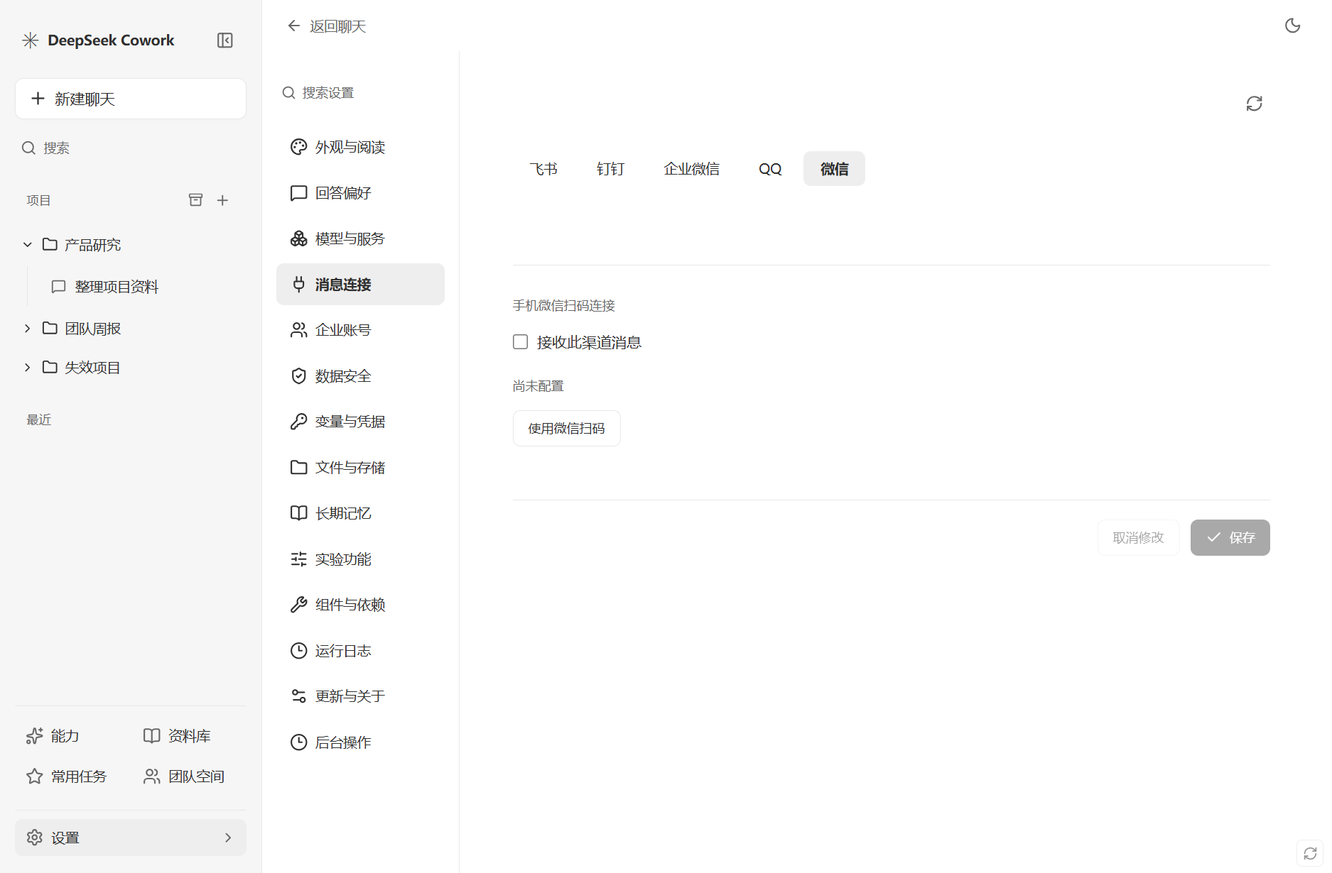
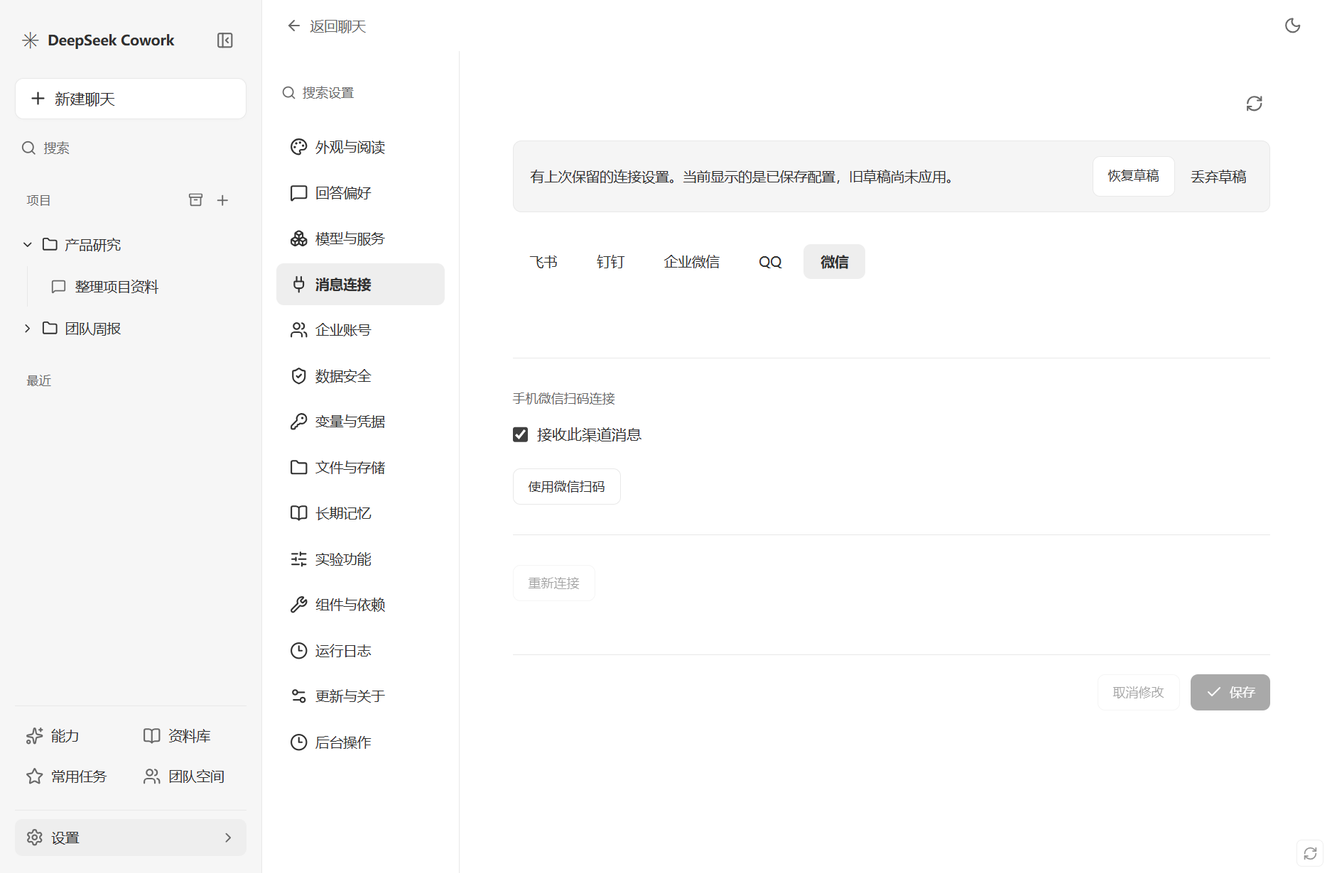
fix(desktop): 修复消息连接旧草稿误提醒并添加标签页列表

diff --git a/desktop/src/Workspace.tsx b/desktop/src/Workspace.tsx
@@ -1,5 +1,5 @@
-import { useCallback, useEffect, useRef, useState, type ReactNode } from 'react';
-import { ArrowLeft, ChevronRight, FileText, Folder, Globe, ListChecks, Maximize2, MessageSquare, Minimize2, Pin, PinOff, Plus, RefreshCw, Search, Terminal, X } from 'lucide-react';
+import { useCallback, useEffect, useLayoutEffect, useRef, useState, type ReactNode } from 'react';
+import { ArrowLeft, Check, ChevronDown, ChevronRight, FileText, Folder, Globe, ListChecks, Maximize2, MessageSquare, Minimize2, Pin, PinOff, Plus, RefreshCw, Search, Terminal, X } from 'lucide-react';
 import type { Conversation, FileSession } from './types';
 import PluginSlot from './plugins/PluginSlot';
 import {useHostField} from './host/context';
@@ -26,6 +26,8 @@ export default function Workspace(props: Props) {
   const [tabs, setTabs] = useState<WorkbenchTab[]>([]), [profiles, setProfiles] = useState<{id: string; name: string}[]>([]);
   const [address, setAddress] = useHostField('workspace:'+cid+':address',''), [shell, setShell] = useHostField('workspace:'+cid+':shell',''), [busy, setBusy] = useState(false), [loadError, setLoadError] = useState('');
   const root = useRef<HTMLElement>(null), alive = useRef(true);
+  const [tabsOpen, setTabsOpen] = useState(false), [tabQuery, setTabQuery] = useState('');
+  const tabPicker = useRef<HTMLDivElement>(null), tabTrigger = useRef<HTMLButtonElement>(null);
   const current = useRef(props); current.current = props;
   const refresh = useCallback(async () => {
     try { const result = await call('workbench.list', { conversation_id: cid }); if (alive.current) { setTabs(result.tabs); setLoadError(''); } }
@@ -51,6 +53,30 @@ export default function Workspace(props: Props) {
   const showTasks = value.selected === 'tasks' && value.tasksPinned;
   const floating = value.filesOpen && !value.filesPinned;
   const fileSelected = value.selected.startsWith('file:');
+  useEffect(() => {setTabsOpen(false);setTabQuery('');},[cid]);
+  useEffect(() => {
+    if (!tabsOpen) return;
+    const dismiss = (event: PointerEvent) => {
+      if (!tabPicker.current?.contains(event.target as Node) && !tabTrigger.current?.contains(event.target as Node)) setTabsOpen(false);
+    };
+    const blur = () => setTabsOpen(false);
+    document.addEventListener('pointerdown',dismiss);window.addEventListener('blur',blur);
+    tabPicker.current?.querySelector('input')?.focus();
+    return () => {document.removeEventListener('pointerdown',dismiss);window.removeEventListener('blur',blur);};
+  },[tabsOpen]);
+  useLayoutEffect(() => {
+    const list=root.current?.querySelector<HTMLElement>('.workspace-tabs');
+    if (!list) return;
+    const reveal=()=>{
+      const tab=list.querySelector<HTMLElement>('.workspace-tab.active');
+      if (!tab) return;
+      const bounds=list.getBoundingClientRect(),selected=tab.getBoundingClientRect();
+      if(selected.left<bounds.left)list.scrollLeft+=selected.left-bounds.left;
+      else if(selected.right>bounds.right)list.scrollLeft+=selected.right-bounds.right;
+    };
+    reveal();const observer=new ResizeObserver(reveal);observer.observe(list);
+    return()=>observer.disconnect();
+  },[value.selected,expanded,editors.length,tabs.length,value.tasksPinned,value.newOpen]);
   async function openNative(kind: 'web' | 'terminal') {
     setBusy(true);
     try {
@@ -74,6 +100,14 @@ export default function Workspace(props: Props) {
       {close && <button className="tab-close" aria-label={'关闭 ' + name} onClick={close}><X size={13}/></button>}
     </div>;
   }
+  const tabItems: {id:string;name:string;detail?:string;icon:ReactNode;select:()=>void;close?:()=>void}[] = [
+    ...(expanded ? [{id:'conversation',name:'对话',icon:<MessageSquare size={14}/>,select:()=>change({selected:'conversation'})}] : []),
+    ...(value.tasksPinned ? [{id:'tasks',name:'任务',icon:<ListChecks size={14}/>,select:()=>change({selected:'tasks'}),close:()=>change({tasksPinned:false,...(showTasks ? {selected:'new',newOpen:true} : {})})}] : []),
+    ...editors.map(editor=>({id:'file:'+editor.file.path,name:editor.file.name+(editor.text!==editor.saved ? ' •' : ''),detail:editor.file.path,icon:<FileText size={14}/>,select:()=>void props.selectFile(editor.file.path),close:()=>void props.closeFile(editor.file.path)})),
+    ...tabs.map(tab=>({id:'workbench:'+tab.id,name:tab.title,detail:tab.kind==='web'?tab.url:tab.cwd,icon:tab.kind==='web'?<Globe size={14}/>:<Terminal size={14}/>,select:()=>{change({selected:'workbench:'+tab.id});void call('workbench.activate',{conversation_id:cid,tab_id:tab.id}).catch(failure=>error(failure.message));},close:()=>void closeNative(tab)})),
+    ...(value.newOpen ? [{id:'new',name:'新标签页',icon:<Plus size={14}/>,select:()=>change({selected:'new'}),close:()=>change({newOpen:false,selected:editors[0]?'file:'+editors[0].file.path:tabs[0]?'workbench:'+tabs[0].id:value.tasksPinned?'tasks':'empty'})}] : []),
+  ];
+  const matchingTabs=tabItems.filter(tab=>(tab.name+' '+(tab.detail||'')).toLocaleLowerCase().includes(tabQuery.trim().toLocaleLowerCase()));
   const taskContent = <PluginSlot kind="panel" target="tasks" scope={{conversationId:cid}}><TaskWorkspace cid={cid} conversation={conversation} value={value.task} change={task => change({task: {...value.task, ...task}})} error={error}/></PluginSlot>;
   return <section className="workspace" ref={root} aria-label="工作区">
     <div className="workspace-bar">
@@ -83,16 +117,20 @@ export default function Workspace(props: Props) {
         requestAnimationFrame(() => root.current?.querySelector<HTMLButtonElement>('[role="tab"][title="任务"]')?.focus());
       }}><ListChecks size={17}/></button>}
       <div className="workspace-tabs" role="tablist" aria-label="工作区标签">
-        {expanded && tabButton('conversation', '对话', <MessageSquare size={14}/>, () => change({selected: 'conversation'}))}
-        {value.tasksPinned && tabButton('tasks', '任务', <ListChecks size={14}/>, () => change({selected: 'tasks'}), () => change({tasksPinned: false, ...(showTasks ? {selected: 'new', newOpen: true} : {})}))}
-        {editors.map(editor => tabButton('file:' + editor.file.path, editor.file.name + (editor.text !== editor.saved ? ' •' : ''), <FileText size={14}/>, () => void props.selectFile(editor.file.path), () => void props.closeFile(editor.file.path)))}
-        {tabs.map(tab => tabButton('workbench:' + tab.id, tab.title, tab.kind === 'web' ? <Globe size={14}/> : <Terminal size={14}/>, () => { change({selected: 'workbench:' + tab.id}); void call('workbench.activate', {conversation_id: cid, tab_id: tab.id}).catch(failure => error(failure.message)); }, () => void closeNative(tab)))}
-        {value.newOpen && tabButton('new', '新标签页', <Plus size={14}/>, () => change({selected: 'new'}), () => change({newOpen: false, selected: editors[0] ? 'file:' + editors[0].file.path : tabs[0] ? 'workbench:' + tabs[0].id : value.tasksPinned ? 'tasks' : 'empty'}))}
+        {tabItems.map(tab=>tabButton(tab.id,tab.name,tab.icon,tab.select,tab.close))}
       </div>
+      <button ref={tabTrigger} data-workspace-toggle className={'icon-button '+(tabsOpen?'selected':'')} title="全部标签页" aria-label="全部标签页" aria-haspopup="dialog" aria-expanded={tabsOpen} onClick={()=>{setTabsOpen(!tabsOpen);setTabQuery('');if(!tabsOpen)change({...(!value.filesPinned?{filesOpen:false}:{}),tasksOpen:false});}}><ChevronDown size={17}/></button>
       <button className="icon-button" title="新标签页" onClick={() => change({selected: 'new', newOpen: true})}><Plus size={17}/></button>
       <button className="icon-button" title={expanded ? '恢复分栏' : '展开工作区'} onClick={props.expand}>{expanded ? <Minimize2 size={16}/> : <Maximize2 size={16}/>}</button>
       <button className="icon-button" title="收起工作区" onClick={props.close}><X size={16}/></button>
     </div>
+    {tabsOpen && <div ref={tabPicker} data-workspace-flyout className="workspace-tab-picker" role="dialog" aria-label="全部标签页" onKeyDown={event=>{
+      if(event.key==='Escape'){event.preventDefault();event.stopPropagation();setTabsOpen(false);tabTrigger.current?.focus();}
+      if(['ArrowDown','ArrowUp'].includes(event.key)){
+        event.preventDefault();const choices=[...tabPicker.current!.querySelectorAll<HTMLButtonElement>('[role=option]')],index=choices.indexOf(document.activeElement as HTMLButtonElement);
+        choices[index<0?(event.key==='ArrowDown'?0:choices.length-1):(index+(event.key==='ArrowDown'?1:choices.length-1))%choices.length]?.focus();
+      }
+    }}><label className="navigator-search"><Search size={15}/><input aria-label="搜索标签页" placeholder="搜索标签页" value={tabQuery} onChange={event=>setTabQuery(event.target.value)}/></label><div className="workspace-tab-choices" role="listbox" aria-label="打开的标签页">{matchingTabs.map(tab=><button key={tab.id} role="option" aria-selected={value.selected===tab.id} title={tab.detail||tab.name} onClick={()=>{tab.select();setTabsOpen(false);requestAnimationFrame(()=>root.current?.querySelector<HTMLButtonElement>('[role=tab][aria-selected=true]')?.focus());}}>{tab.icon}<span>{tab.name}{tab.detail&&<small>{tab.detail}</small>}</span>{value.selected===tab.id&&<Check size={15}/>}</button>)}{!matchingTabs.length&&<p className="muted">{tabItems.length?'没有匹配的标签页':'还没有打开的标签页'}</p>}</div></div>}
     <div className={'workspace-body ' + (value.filesOpen && value.filesPinned ? 'files-pinned' : '')}>
       {value.filesOpen && <PluginSlot kind="panel" target="files" scope={{conversationId:cid}}><aside data-workspace-flyout className={'file-navigator ' + (value.filesPinned ? 'pinned' : 'floating')} aria-label="工作区文件导航">
         <div className="navigator-heading"><strong>工作区文件</strong><small>{props.fileTree.files.length} 项</small><button className="icon-button" title={value.filesPinned ? '取消固定文件导航' : '固定文件导航'} onClick={() => change({filesPinned: !value.filesPinned})}>{value.filesPinned ? <PinOff size={14}/> : <Pin size={14}/>}</button></div>
@@ -104,7 +142,7 @@ export default function Workspace(props: Props) {
       </aside></PluginSlot>}
       <div className="workspace-content" hidden={expanded && value.selected === 'conversation'}>
         {loadError && <div className="inline-error" role="alert">{loadError}<button onClick={() => void refresh()}>重试</button></div>}
-        {showTasks ? taskContent : fileSelected ? props.fileContent : selectedTab?.kind === 'terminal' ? <PluginSlot kind="panel" target="terminal" scope={{conversationId:cid,tabId:selectedTab.id}}><TerminalWorkspace key={selectedTab.id} cid={cid} tab={selectedTab} dark={props.dark} error={error} refresh={refresh}/></PluginSlot> : selectedTab?.kind === 'web' ? <PluginSlot kind="panel" target="browser" scope={{conversationId:cid,tabId:selectedTab.id}}><BrowserWorkspace key={selectedTab.id} cid={cid} tab={selectedTab} obscured={props.obscured || floating} error={error} refresh={refresh}/></PluginSlot> : <div className="workspace-start">
+        {showTasks ? taskContent : fileSelected ? props.fileContent : selectedTab?.kind === 'terminal' ? <PluginSlot kind="panel" target="terminal" scope={{conversationId:cid,tabId:selectedTab.id}}><TerminalWorkspace key={selectedTab.id} cid={cid} tab={selectedTab} dark={props.dark} error={error} refresh={refresh}/></PluginSlot> : selectedTab?.kind === 'web' ? <PluginSlot kind="panel" target="browser" scope={{conversationId:cid,tabId:selectedTab.id}}><BrowserWorkspace key={selectedTab.id} cid={cid} tab={selectedTab} obscured={props.obscured || floating || tabsOpen} error={error} refresh={refresh}/></PluginSlot> : <div className="workspace-start">
           <Globe size={28}/><form className="new-page-address" onSubmit={event => {event.preventDefault(); void openNative('web');}}><input aria-label="新网页地址" placeholder="输入网址" value={address} onChange={event => setAddress(event.target.value)}/><button className="icon-button" title="打开网页" disabled={!address.trim() || busy}><ChevronRight size={17}/></button></form>
           <div className="workspace-start-actions"><button className="secondary" onClick={() => void props.createDocument()}><FileText size={16}/>新增页面</button><button className="secondary" disabled={busy} onClick={() => void openNative('terminal')}><Terminal size={16}/>终端</button></div>
           <select aria-label="新终端类型" value={shell} onChange={event => setShell(event.target.value)}><option value="">默认终端</option>{profiles.map(profile => <option key={profile.id} value={profile.id}>{profile.name}</option>)}</select>

diff --git a/desktop/src/management/SystemSettings.tsx b/desktop/src/management/SystemSettings.tsx
@@ -13,9 +13,9 @@ export default function SystemSettings(props: Props) {
 }
 function SettingsForm({ page, kind, onDirty, onError, confirm, reload, context, setContext }: Props & {page: any; reload: () => void; context: string; setContext: (value: string) => void}) {
   const fields = page.sections.flatMap((section: any) => section.fields || []), secrets = fields.filter((field: any) => field.type === 'password').map((field: any) => field.key);
-  const form = useFormDraft('settings:' + kind + ':' + context, page.values || {}, kind === 'logs' ? () => {} : onDirty, secrets);
+  const form = useFormDraft('settings:' + kind + ':' + context, page.values || {}, kind === 'logs' ? () => {} : onDirty, secrets, kind === 'im');
   const channels = fields.find((field: any) => field.key === 'enabled_provider')?.options.filter((option: any) => option.value) || [];
-  const [channel, setChannel] = useHostField('settings:browse:' + kind, page.values.enabled_provider || channels[0]?.value || '');
+  const [channel, setChannel] = useHostField('settings:browse:' + kind, form.value.enabled_provider || page.values.enabled_provider || channels[0]?.value || '');
   const [savedRevision, setSavedRevision] = useState(page.revision);
   const [busy, setBusy] = useState(false), [failure, setFailure] = useState(''), [job, setJob] = useState<any>(null), [detail, setDetail] = useState<any>(null);
   function set(key: string, value: any) {form.change({...form.value, [key]: value});}
@@ -44,7 +44,7 @@ function SettingsForm({ page, kind, onDirty, onError, confirm, reload, context, 
         {field.type === 'textarea' ? <textarea rows={field.rows || 6} value={value} disabled={busy || field.read_only} onChange={event => set(field.key, event.target.value)}/> : field.type === 'select' ? <select value={value} disabled={busy || field.read_only} onChange={event => set(field.key, event.target.value)}>{field.options.map((option: any) => <option key={String(option.value)} value={option.value}>{option.label}</option>)}</select> : field.type === 'path' ? <div className="input-action"><input value={value} disabled={busy || field.read_only} onChange={event => set(field.key, event.target.value)}/><button type="button" className="secondary" disabled={busy || field.read_only} onClick={async () => {const path = await rpc('dialog.workspace'); if (path) set(field.key, path);}}><Folder size={14}/>选择</button></div> : <input type={field.type === 'password' ? 'password' : field.type === 'number' ? 'number' : 'text'} autoComplete={field.type === 'password' ? 'off' : undefined} value={value} min={field.min} max={field.max} step={field.step} placeholder={field.placeholder} disabled={busy || field.read_only} onChange={event => set(field.key, field.type === 'number' ? Number(event.target.value) : event.target.value)}/>}
       </Field>;
   }
-  return <><PageHead compact title={page.title} detail={page.description}><button className="icon-button" title="刷新状态" disabled={busy || (kind !== 'logs' && form.dirty)} onClick={reload}><RefreshCw size={17}/></button></PageHead>{page.contexts && <Field label="记忆范围"><select value={context} disabled={busy} onChange={async event => {const value = event.target.value; if (!form.dirty || await confirm('保留未保存的记忆？', '编辑草稿按项目保留，下次选择该项目时可继续。', ['继续编辑','切换项目']) === 1) setContext(value);}}>{page.contexts.map((item: any) => <option key={item.value} value={item.value}>{item.label}</option>)}</select></Field>}<JobProgress job={job}/><form className="detail-form" onSubmit={async event => {
+  return <><PageHead compact title={page.title} detail={page.description}><button className="icon-button" title="刷新状态" disabled={busy || (kind !== 'logs' && form.dirty)} onClick={reload}><RefreshCw size={17}/></button></PageHead>{page.contexts && <Field label="记忆范围"><select value={context} disabled={busy} onChange={async event => {const value = event.target.value; if (!form.dirty || await confirm('保留未保存的记忆？', '编辑草稿按项目保留，下次选择该项目时可继续。', ['继续编辑','切换项目']) === 1) setContext(value);}}>{page.contexts.map((item: any) => <option key={item.value} value={item.value}>{item.label}</option>)}</select></Field>}{form.recovery && <section className="settings-draft-recovery" role="status"><p>有上次保留的连接设置。当前显示的是已保存配置，旧草稿尚未应用。</p><div className="button-row"><button className="secondary" onClick={async()=>{if(!form.dirty || await confirm('恢复上次的连接设置？','当前未保存的编辑将被旧草稿替换，已保存配置不会改变。',['继续编辑','恢复草稿'])===1)form.restore();}}>恢复草稿</button><button onClick={async()=>{if(await confirm('丢弃旧草稿？','只清除这份未恢复的连接设置，已保存配置和当前编辑均保留。',['保留','丢弃草稿'])===1)form.discardRecovery();}}>丢弃草稿</button></div></section>}<JobProgress job={job}/><form className="detail-form" onSubmit={async event => {
     event.preventDefault(); setBusy(true); setFailure('');
     try {const result = await rpc('settings.page_save', {page: kind, context, value: form.value, revision: savedRevision}); form.done(result.values || form.value); setSavedRevision(result.revision); if(kind === 'im') reload(); onError('设置已保存。');}
     catch (failure) {setFailure((failure as Error).message);} finally {setBusy(false);}

diff --git a/desktop/src/Management.tsx b/desktop/src/Management.tsx
@@ -3,6 +3,7 @@ import { ArrowLeft, BookOpen, Boxes, CircleUserRound, Clock3, KeyRound, LoaderCi
 import { rpc } from './managementApi';
 import type { Settings } from './types';
 import {useHostField} from './host/context';
+import {prepareFormDraft, publicFormDraft, restoreFormRecovery, sameFormValue, type FormDraft} from './host/forms';
 const Capabilities = lazy(() => import('./management/Capabilities'));
 const Preferences = lazy(() => import('./management/Preferences'));
 const Library = lazy(() => import('./management/Library'));
@@ -65,34 +66,41 @@ export function JobProgress({ job }: { job: any }) {
   return job && !['completed', 'failed', 'cancelled'].includes(job.status) ? <div className="job-progress" role="status"><LoaderCircle size={16} className="spin"/><span>{job.message || '正在处理…'}</span>{job.url && <button className="secondary" onClick={() => void rpc('external.open', { url: job.url })}>打开登录页</button>}<button className="icon-button" title="取消操作" onClick={() => void rpc('jobs.cancel', { id: job.id })}><X size={15}/></button>{job.qr_data && <img className="connection-qr" src={job.qr_data} alt="连接二维码"/>}{job.verification_required && <div className="input-action"><input aria-label="手机配对码" value={code} onChange={e => setCode(e.target.value)}/><button type="button" onClick={async () => {try {await rpc('im.verify', {code}); setCode(''); setFailure('');} catch (error) {setFailure((error as Error).message);}}}>确认配对码</button></div>}{failure && <span className="error-text">{failure}</span>}</div> : null;
 }
 
-export function useFormDraft(key: string, initial: any, onDirty: (dirty: boolean) => void, secrets: string[] = []) {
-  const [entry,setEntry] = useHostField<any>('form:' + key, () => {
+export function useFormDraft(key: string, initial: any, onDirty: (dirty: boolean) => void, secrets: string[] = [], offerLegacy = false) {
+  const [stored,setEntry] = useHostField<FormDraft>('form:' + key, () => {
     const cached=localStorage.getItem('form:' + key);
-    return {value:cached ? {...initial,...JSON.parse(cached)} : initial, saved:initial};
+    return prepareFormDraft(initial, cached ? JSON.parse(cached) : null, offerLegacy);
   });
+  const entry = stored.version === 1 ? stored : prepareFormDraft(initial, stored, offerLegacy);
   const {value,saved}=entry;
-  const dirty = JSON.stringify(value) !== JSON.stringify(saved);
+  const dirty = !sameFormValue(value,saved);
   const initialKey = key + ':' + JSON.stringify(initial), seenInitial = useRef('');
+  function persist(next: FormDraft) {
+    if (!next.recovery && sameFormValue(next.value,next.saved)) localStorage.removeItem('form:' + key);
+    else localStorage.setItem('form:' + key, JSON.stringify(publicFormDraft(next,secrets)));
+  }
   useEffect(()=>{
     if(seenInitial.current===initialKey)return;
     seenInitial.current=initialKey;
-    if(!dirty&&JSON.stringify(initial)!==JSON.stringify(saved))setEntry({value:initial,saved:initial});
-  },[initialKey,dirty,saved,initial]);
+    const next=prepareFormDraft(initial,entry,offerLegacy);
+    if(!sameFormValue(stored,next))setEntry(next);
+    persist(next);
+    if(next.recovery)console.info('form_draft_recovery_available', {form:key});
+  },[initialKey]);
   useEffect(() => { onDirty(dirty); return () => onDirty(false); }, [dirty, onDirty]);
-  function change(next: any) {
-    setEntry({...entry,value:next});
-    const publicDraft = { ...next }; for (const key of secrets) delete publicDraft[key];
-    localStorage.setItem('form:' + key, JSON.stringify(publicDraft));
-  }
+  function update(next: FormDraft) {setEntry(next);persist(next);}
+  function change(next: any) { update({...entry,value:next}); }
   function done(next = value) {
     let remaining = false;
-    setEntry((previous:any)=>{
-      const current=JSON.stringify(previous.value)===JSON.stringify(value)?next:previous.value;
-      remaining=JSON.stringify(current)!==JSON.stringify(next);
-      if(remaining){const cached={...current};for(const name of secrets)delete cached[name];localStorage.setItem('form:'+key,JSON.stringify(cached));}
-      else localStorage.removeItem('form:'+key);
-      return {value:current,saved:next};
+    setEntry(previous=>{
+      const current=sameFormValue(previous.value,value)?next:previous.value;
+      remaining=!sameFormValue(current,next);
+      const result={...previous,version:1 as const,value:current,saved:next};
+      persist(result);return result;
     });onDirty(remaining);
   }
-  return { value, change, done, dirty, reset: () => {setEntry({value:saved,saved});localStorage.removeItem('form:'+key);onDirty(false);} };
+  return { value, change, done, dirty, recovery:entry.recovery,
+    restore: () => {update(restoreFormRecovery(entry));console.info('form_draft_restored', {form:key});},
+    discardRecovery: () => {const {recovery,...next}=entry;update(next);console.info('form_draft_discarded', {form:key});},
+    reset: () => {update({...entry,value:saved});onDirty(false);} };
 }

diff --git a/desktop/src/host/forms.ts b/desktop/src/host/forms.ts
@@ -1,0 +1,41 @@
+/** Form drafts keep their saved baseline; browsing a legacy draft is not an edit. */
+type Values = Record<string, any>;
+type Snapshot = { value: Values; saved: Values };
+export type FormDraft = Snapshot & { version: 1; recovery?: Snapshot };
+
+export function sameFormValue(left: any, right: any): boolean {
+  if (Object.is(left, right)) return true;
+  if (!left || !right || typeof left !== 'object' || typeof right !== 'object' || Array.isArray(left) !== Array.isArray(right)) return false;
+  const keys = Object.keys(left);
+  return keys.length === Object.keys(right).length && keys.every(key => Object.hasOwn(right, key) && sameFormValue(left[key], right[key]));
+}
+
+function rebase(initial: Values, draft: Snapshot): Values {
+  const value = { ...initial };
+  for (const key of new Set([...Object.keys(draft.saved), ...Object.keys(draft.value)])) {
+    if (sameFormValue(draft.value[key], draft.saved[key])) continue;
+    if (Object.hasOwn(draft.value, key)) value[key] = draft.value[key];
+    else delete value[key];
+  }
+  return value;
+}
+
+export function prepareFormDraft(initial: Values, cached: any, offerLegacy = false): FormDraft {
+  if (!cached) return { version: 1, value: initial, saved: initial };
+  const snapshot = cached.value && cached.saved;
+  const value = snapshot ? rebase(initial, cached) : { ...initial, ...cached };
+  if (cached.version !== 1 && offerLegacy && !sameFormValue(value, initial)) {
+    return { version: 1, value: initial, saved: initial, recovery: { value, saved: initial } };
+  }
+  return { version: 1, value, saved: initial, ...(cached.recovery ? { recovery: cached.recovery } : {}) };
+}
+
+export function restoreFormRecovery(entry: FormDraft): FormDraft {
+  return entry.recovery ? { version: 1, value: rebase(entry.saved, entry.recovery), saved: entry.saved } : entry;
+}
+
+export function publicFormDraft(entry: FormDraft, secrets: string[]): FormDraft {
+  const publicValues = (value: Values) => Object.fromEntries(Object.entries(value).filter(([key]) => !secrets.includes(key)));
+  const publicSnapshot = (snapshot: Snapshot) => ({ value: publicValues(snapshot.value), saved: publicValues(snapshot.saved) });
+  return { version: 1, ...publicSnapshot(entry), ...(entry.recovery ? { recovery: publicSnapshot(entry.recovery) } : {}) };
+}

diff --git a/desktop/src/management.css b/desktop/src/management.css
@@ -130,3 +130,5 @@ body{font-family:var(--font-family);font-size:calc(14px * var(--font-scale))}
 .connection-receive{display:flex;align-items:center;gap:16px;flex-wrap:wrap;margin-bottom:20px}.connection-receive .check-line{display:flex;align-items:center;gap:8px;line-height:1.65}.connection-receive small{font-size:12px;color:var(--muted)}
 .jobs-toolbar>select{max-width:160px}.job-history>details{border-bottom:1px solid var(--line)}.job-history>details>summary{display:flex;align-items:center;gap:14px;cursor:pointer;list-style:none;padding:18px 0}.job-history>details>summary::-webkit-details-marker{display:none}.job-history>details>summary>svg{flex-shrink:0;transition:transform .15s}.job-history>details[open]>summary>svg{transform:rotate(90deg)}.job-history summary>div{flex:1;min-width:0}.job-history summary strong{font-size:14px;font-weight:550;overflow-wrap:anywhere}.job-history summary time{display:block;font-size:12px;color:var(--muted);margin-top:7px}.job-history summary>span{font-size:12px;flex-shrink:0}.job-history summary>button{flex-shrink:0}.job-log{padding:0 0 20px 30px}.job-log-tools{display:flex;align-items:center;gap:12px;justify-content:flex-end;flex-wrap:wrap;margin-bottom:10px}.job-log-tools>small{margin-right:auto;color:var(--muted)}.job-log ol{list-style:none;margin:0;padding:0;max-height:360px;overflow:auto}.job-log li{display:flex;align-items:flex-start;gap:16px;padding:7px 0;font-size:13px;line-height:1.7}.job-log li>time{color:var(--muted);flex-shrink:0;font-variant-numeric:tabular-nums}.job-log li>span{white-space:pre-wrap;overflow-wrap:anywhere;min-width:0}.job-log>p{font-size:13px;line-height:1.7;white-space:pre-wrap;overflow-wrap:anywhere}
 @media(max-width:800px){.job-history>details>summary{gap:8px;flex-wrap:wrap}.job-log{padding-left:0}.job-log li{gap:10px}.jobs-toolbar>.page-search{flex-basis:100%}}
+
+.settings-draft-recovery{display:flex;align-items:center;justify-content:space-between;flex-wrap:wrap;gap:12px;margin-bottom:20px;padding:14px 16px;background:var(--soft);border:1px solid var(--line);border-radius:8px;font-size:13px;line-height:1.7}.settings-draft-recovery p{flex:1 1 260px;margin:0}.settings-draft-recovery .button-row{flex-shrink:0}

diff --git a/desktop/src/workspace.css b/desktop/src/workspace.css
@@ -45,3 +45,5 @@
 
 .office-preview{display:flex;flex-direction:column;flex:1;min-height:0;overflow:hidden}.office-preview>iframe{flex:1;width:100%;min-height:0;border:0}.office-preview>.muted{padding:12px 16px}.office-preview .file-update-notice{flex-shrink:0}.office-preview .empty-workspace{flex:1;display:flex;flex-direction:column;justify-content:center;gap:14px;padding:24px;text-align:center}
 .office-preview .file-update-notice span{min-width:0;overflow-wrap:anywhere}.office-preview .file-update-notice button{flex-shrink:0;white-space:nowrap;align-self:flex-start}
+
+.workspace-tab-picker{position:absolute;right:8px;top:52px;width:min(360px,calc(100% - 16px));max-height:calc(100% - 96px);display:flex;flex-direction:column;z-index:30;background:var(--bg);color:var(--text);border:1px solid var(--line);border-radius:9px;box-shadow:0 8px 24px #0002;padding:6px;min-height:0}.workspace-tab-picker .navigator-search{flex-shrink:0;margin:3px 4px 8px}.workspace-tab-choices{min-height:0;overflow:auto}.workspace-tab-choices>button{display:flex;align-items:center;gap:10px;width:100%;padding:10px;text-align:left;border-radius:6px;font-size:13px}.workspace-tab-choices>button[aria-selected=true]{background:var(--soft)}.workspace-tab-choices>button:hover{background:var(--hover)}.workspace-tab-choices>button>svg{flex-shrink:0}.workspace-tab-choices>button>span{flex:1;min-width:0;overflow-wrap:anywhere}.workspace-tab-choices small{display:block;overflow:hidden;white-space:nowrap;text-overflow:ellipsis;color:var(--muted);font-size:11px;margin-top:4px}.workspace-tab-choices>p{font-size:13px;padding:8px 10px}
